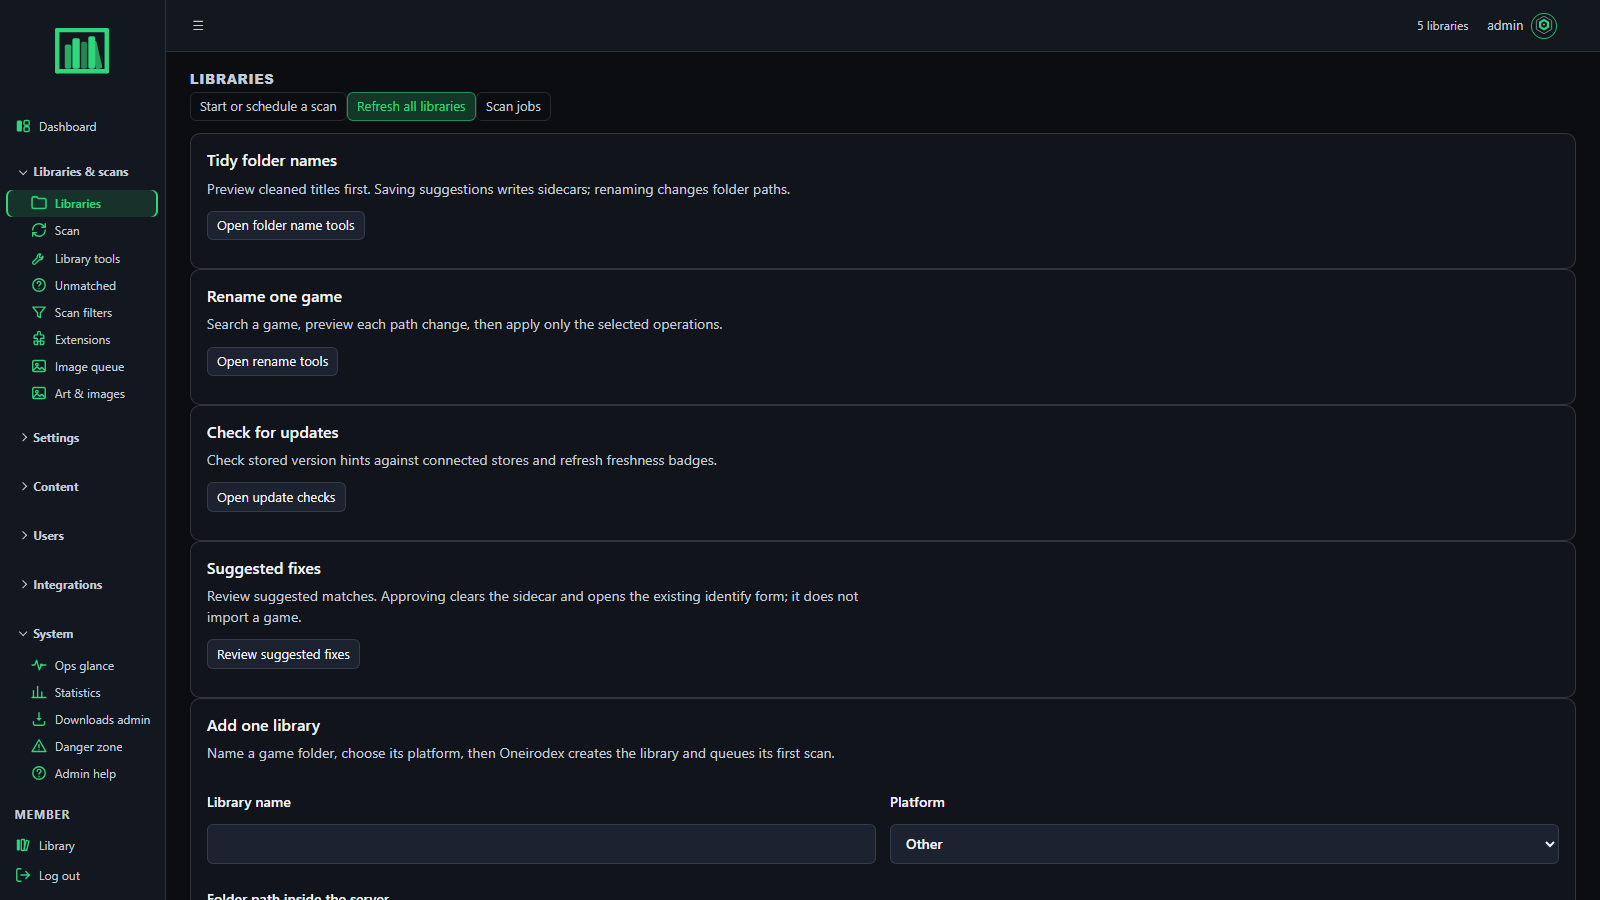
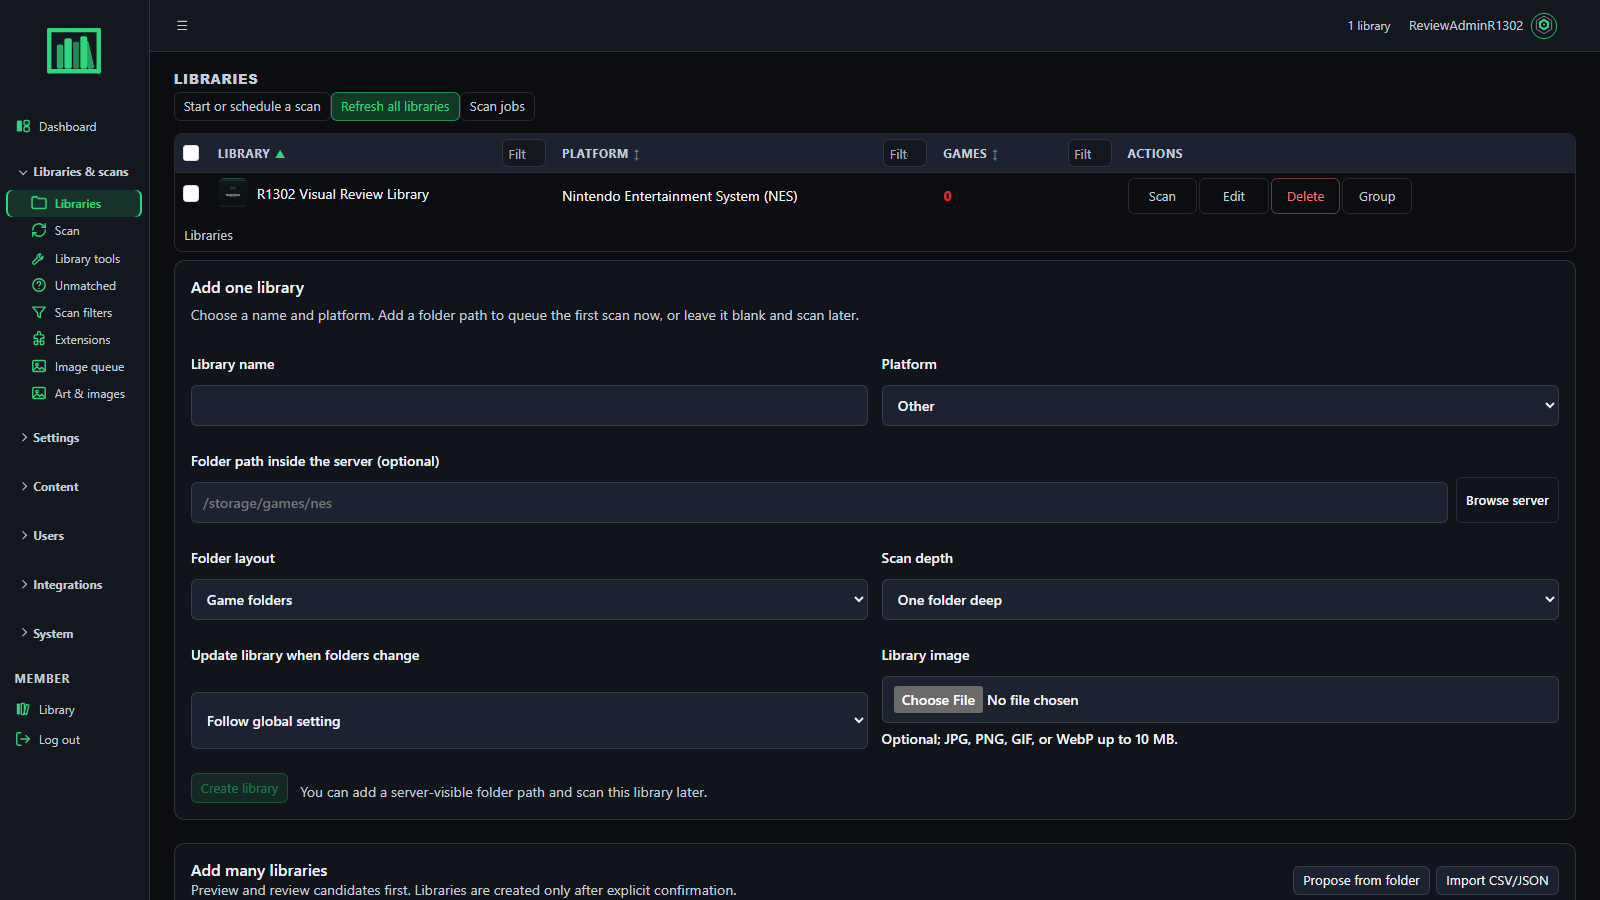
fix: put library roster first on admin page

diff --git a/frontend/admin-app/src/pages/ManualIdentifyPage.test.tsx b/frontend/admin-app/src/pages/ManualIdentifyPage.test.tsx
@@ -98,7 +98,7 @@ test('loads options, applies an IGDB match, and posts a JSON identify payload', 
     'od-btn--primary',
     'od-btn--lg',
   )
-  expect(screen.getByRole('button', { name: 'Save', exact: true })).toHaveClass('od-btn--lg')
+  expect(screen.getByRole('button', { name: /^Save$/ })).toHaveClass('od-btn--lg')
   for (const provider of ['Steam', 'GOG', 'RAWG', 'MobyGames', 'TheGamesDB']) {
     expect(screen.getByRole('button', { name: `Search ${provider}` })).toHaveClass(
       'od-btn--primary',
@@ -110,7 +110,7 @@ test('loads options, applies an IGDB match, and posts a JSON identify payload', 
   expect(screen.getByLabelText('Status')).toHaveValue('RELEASED')
   expect(screen.getByRole('button', { name: 'Search IGDB by ID' })).toBeEnabled()
   expect(screen.getByText('Enter the IGDB ID of the game.')).toBeInTheDocument()
-  expect(screen.getByRole('button', { name: 'Save', exact: true })).toBeDisabled()
+  expect(screen.getByRole('button', { name: /^Save$/ })).toBeDisabled()
   fireEvent.click(screen.getByRole('button', { name: 'Search IGDB by ID' }))
   expect(fetchMock).not.toHaveBeenCalledWith(
     expect.stringContaining('/api/search_igdb_by_id'),
@@ -121,8 +121,8 @@ test('loads options, applies an IGDB match, and posts a JSON identify payload', 
   expect(screen.getByLabelText('Name')).toHaveValue('Sample')
   fireEvent.click(screen.getByRole('tab', { name: 'Taxonomy' }))
   expect(screen.getByLabelText('Adventure')).toBeChecked()
-  expect(screen.getByRole('button', { name: 'Save', exact: true })).toBeEnabled()
-  fireEvent.click(screen.getByRole('button', { name: 'Save', exact: true }))
+  expect(screen.getByRole('button', { name: /^Save$/ })).toBeEnabled()
+  fireEvent.click(screen.getByRole('button', { name: /^Save$/ }))
 
   await waitFor(() =>
     expect(fetchMock).toHaveBeenCalledWith(
@@ -497,7 +497,7 @@ test('explains that a game name is required before searching IGDB', async () => 
     </MemoryRouter>,
   )
 
-  const searchButton = await screen.findByRole('button', { name: 'Search IGDB', exact: true })
+  const searchButton = await screen.findByRole('button', { name: /^Search IGDB$/ })
   expect(searchButton).toBeEnabled()
   fireEvent.click(searchButton)
 
@@ -537,7 +537,7 @@ test('keeps an empty IGDB result as inline guidance instead of an error alert', 
     </MemoryRouter>,
   )
 
-  fireEvent.click(await screen.findByRole('button', { name: 'Search IGDB', exact: true }))
+  fireEvent.click(await screen.findByRole('button', { name: /^Search IGDB$/ }))
 
   expect(await screen.findByRole('status')).toHaveTextContent(note)
   expect(screen.queryByRole('alert')).not.toBeInTheDocument()
@@ -621,7 +621,7 @@ test('announces IGDB transport failures beside the search controls', async () =>
     </MemoryRouter>,
   )
 
-  fireEvent.click(await screen.findByRole('button', { name: 'Search IGDB', exact: true }))
+  fireEvent.click(await screen.findByRole('button', { name: /^Search IGDB$/ }))
 
   const alert = await screen.findByRole('alert')
   expect(alert).toHaveTextContent('Failed to fetch')
@@ -707,11 +707,11 @@ test('switches non-catalog entry to a generated, locked ID and focuses the empty
     expect(name).toHaveFocus()
   })
   expect(screen.getByRole('button', { name: 'Search IGDB by ID' })).toBeDisabled()
-  expect(screen.getByRole('button', { name: 'Search IGDB', exact: true })).toBeDisabled()
-  expect(screen.getByRole('button', { name: 'Save', exact: true })).toBeDisabled()
+  expect(screen.getByRole('button', { name: /^Search IGDB$/ })).toBeDisabled()
+  expect(screen.getByRole('button', { name: /^Save$/ })).toBeDisabled()
   fireEvent.change(name, { target: { value: 'Custom game' } })
-  expect(screen.getByRole('button', { name: 'Search IGDB', exact: true })).toBeDisabled()
-  expect(screen.getByRole('button', { name: 'Save', exact: true })).toBeEnabled()
+  expect(screen.getByRole('button', { name: /^Search IGDB$/ })).toBeDisabled()
+  expect(screen.getByRole('button', { name: /^Save$/ })).toBeEnabled()
   expect(fetchMock).not.toHaveBeenCalledWith(
     expect.stringContaining('/api/search_igdb_by_id'),
     expect.anything(),
@@ -779,8 +779,8 @@ test('reports custom ID allocation failure without using the legacy fallback ID'
   expect(id).toHaveValue(null)
   expect(id).not.toHaveAttribute('readonly')
   expect(screen.getByRole('button', { name: 'Search IGDB by ID' })).toBeEnabled()
-  expect(screen.getByRole('button', { name: 'Search IGDB', exact: true })).toBeEnabled()
-  expect(screen.getByRole('button', { name: 'Save', exact: true })).toBeDisabled()
+  expect(screen.getByRole('button', { name: /^Search IGDB$/ })).toBeEnabled()
+  expect(screen.getByRole('button', { name: /^Save$/ })).toBeDisabled()
   expect(
     fetchMock.mock.calls.some(([input]) => String(input) === '/api/admin/manual-identify'),
   ).toBe(false)

diff --git a/frontend/admin-app/src/components/LibrariesPanel.tsx b/frontend/admin-app/src/components/LibrariesPanel.tsx
@@ -378,47 +378,6 @@ export function LibrariesPanel({ panelEl: _panelEl = null }: { panelEl?: Element
 
   return (
     <div className="od-libraries-react">
-      <CreateLibraryForm onCreated={() => void reload()} />
-      <section
-        className="od-admin-panel od-libraries-add-many"
-        aria-labelledby="od-libraries-add-many-title"
-      >
-        <div className="od-libraries-add-many__header">
-          <div>
-            <h2 id="od-libraries-add-many-title" className="od-admin-panel-title">
-              Add many libraries
-            </h2>
-            <p className="od-admin-lede">
-              Preview and review candidates first. Libraries are created only after explicit
-              confirmation.
-            </p>
-          </div>
-          <div
-            className="od-libraries-add-many__actions"
-            role="group"
-            aria-label="Add many workflows"
-          >
-            <Button
-              type="button"
-              className={addManyMode === 'propose' ? 'od-btn--accent' : 'od-btn--secondary'}
-              aria-pressed={addManyMode === 'propose'}
-              onClick={() => setAddManyMode((mode) => (mode === 'propose' ? null : 'propose'))}
-            >
-              Propose from folder
-            </Button>
-            <Button
-              type="button"
-              className={addManyMode === 'import' ? 'od-btn--accent' : 'od-btn--secondary'}
-              aria-pressed={addManyMode === 'import'}
-              onClick={() => setAddManyMode((mode) => (mode === 'import' ? null : 'import'))}
-            >
-              Import CSV/JSON
-            </Button>
-          </div>
-        </div>
-        {addManyMode === 'propose' ? <ProposeLeafLibraries /> : null}
-        {addManyMode === 'import' ? <ImportLeafLibraries /> : null}
-      </section>
       <LibrariesTrailSummary
         libraryCount={libraryCount}
         totalGames={totalGames}
@@ -472,9 +431,51 @@ export function LibrariesPanel({ panelEl: _panelEl = null }: { panelEl?: Element
         columnFilters
         showCount={false}
         dense
-        emptyMessage="No libraries yet. Create one above to start scanning."
+        emptyMessage="No libraries yet. Create one below to start scanning."
         initialSort={{ key: 'name', dir: 'asc' }}
       />
+
+      <CreateLibraryForm onCreated={() => void reload()} />
+      <section
+        className="od-admin-panel od-libraries-add-many"
+        aria-labelledby="od-libraries-add-many-title"
+      >
+        <div className="od-libraries-add-many__header">
+          <div>
+            <h2 id="od-libraries-add-many-title" className="od-admin-panel-title">
+              Add many libraries
+            </h2>
+            <p className="od-admin-lede">
+              Preview and review candidates first. Libraries are created only after explicit
+              confirmation.
+            </p>
+          </div>
+          <div
+            className="od-libraries-add-many__actions"
+            role="group"
+            aria-label="Add many workflows"
+          >
+            <Button
+              type="button"
+              className={addManyMode === 'propose' ? 'od-btn--accent' : 'od-btn--secondary'}
+              aria-pressed={addManyMode === 'propose'}
+              onClick={() => setAddManyMode((mode) => (mode === 'propose' ? null : 'propose'))}
+            >
+              Propose from folder
+            </Button>
+            <Button
+              type="button"
+              className={addManyMode === 'import' ? 'od-btn--accent' : 'od-btn--secondary'}
+              aria-pressed={addManyMode === 'import'}
+              onClick={() => setAddManyMode((mode) => (mode === 'import' ? null : 'import'))}
+            >
+              Import CSV/JSON
+            </Button>
+          </div>
+        </div>
+        {addManyMode === 'propose' ? <ProposeLeafLibraries /> : null}
+        {addManyMode === 'import' ? <ImportLeafLibraries /> : null}
+      </section>
 
       <ScanConflictModal
         open={conflictOpen}

diff --git a/frontend/admin-app/src/components/LibrariesPanel.test.tsx b/frontend/admin-app/src/components/LibrariesPanel.test.tsx
@@ -116,6 +116,22 @@ test('the real Jinja libraries panel exposes the add-and-first-scan form', async
   expect(screen.getByRole('button', { name: 'Create library' })).toBeDisabled()
 })
 
+test('shows the library roster before the create and bulk-import tools', async () => {
+  render(<LibrariesPanel />)
+  const libraryName = await screen.findByText('_pc')
+  const libraryTable = libraryName.closest('table')
+  const createHeading = await screen.findByRole('heading', { name: 'Add one library' })
+  const bulkHeading = screen.getByRole('heading', { name: 'Add many libraries' })
+
+  expect(libraryTable).not.toBeNull()
+  expect(
+    libraryTable!.compareDocumentPosition(createHeading) & Node.DOCUMENT_POSITION_FOLLOWING,
+  ).toBeTruthy()
+  expect(
+    createHeading.compareDocumentPosition(bulkHeading) & Node.DOCUMENT_POSITION_FOLLOWING,
+  ).toBeTruthy()
+})
+
 test('native libraries expose folder proposal and CSV/JSON import with previews before confirmation', async () => {
   render(<LibrariesPanel />)
   await screen.findByText('_pc')

diff --git a/frontend/admin-app/src/pages/SmtpPage.test.tsx b/frontend/admin-app/src/pages/SmtpPage.test.tsx
@@ -145,7 +145,7 @@ test('SMTP heading help opens accessible guidance and traps focus until closed',
   expect(screen.getByRole('button', { name: 'Close SMTP help' })).toHaveFocus()
 
   fireEvent.keyDown(document, { key: 'Tab', shiftKey: true })
-  expect(screen.getByRole('button', { name: 'Close', exact: true })).toHaveFocus()
+  expect(screen.getByRole('button', { name: /^Close$/ })).toHaveFocus()
   fireEvent.keyDown(document, { key: 'Tab' })
   expect(screen.getByRole('button', { name: 'Close SMTP help' })).toHaveFocus()
 
@@ -156,7 +156,7 @@ test('SMTP heading help opens accessible guidance and traps focus until closed',
 
   fireEvent.click(trigger)
   await screen.findByRole('dialog', { name: 'How to Get SMTP Server Information' })
-  fireEvent.click(screen.getByRole('button', { name: 'Close', exact: true }))
+  fireEvent.click(screen.getByRole('button', { name: /^Close$/ }))
   await waitFor(() => expect(screen.queryByRole('dialog')).not.toBeInTheDocument())
   expect(trigger).toHaveFocus()
 })

diff --git a/docs/dev/ui-debt-log.md b/docs/dev/ui-debt-log.md
@@ -323,7 +323,7 @@ Status: `open` | `in_progress` | `done` | `deferred` | `wontfix`
 | UID-174 | Manual Identify file candidates | File-mode candidates could be listed and opened but current save rejected a valid file path as though every game target had to be a directory | Current validation accepts a readable regular file or directory after the existing allowed-root check in both native FastAPI and Flask compatibility mutations. Paired R763 browser replay saved the same synthetic file in both isolated builds; focused API create/edit test and helper tests pass. Existing folder validation remains covered; no scan jobs or provider traffic. Evidence: .artifacts/parity-v1.1.8/manual-file-save-r763-20261024.json. Broader auth, provider, link-existing and error parity remains open. | Bug scrub / parity | in_progress |
 | UID-175 | Link existing game from file-mode candidates | Current link-existing rejected regular file paths even though the manual file scan could list and identify them | Native and Flask compatibility endpoints now accept a readable regular file or directory after allowed-root validation. Paired R763 replay confirms both versions link the existing synthetic game to the same file path and return to Unmatched with success. Current retains its confirmation prompt as an intentional safety improvement. Tests 22/22 across native/compatibility mutation contracts and Flask API file-path behavior; scan jobs 0, provider calls 0. Evidence: .artifacts/parity-v1.1.8/manual-link-existing-file-r763-20261024.json. | Bug scrub / parity | in_progress |
 | UID-176 | Direct Manual Identify path title prefill | A direct `full_disk_path` entry without `name` left the current React Name field blank while v1.1.8 prefilled the path title | **Fixed and verified 2026-10-24:** current admin options expose the same supported ROM/archive suffixes as the scanner; the form derives the final path segment when `name` is absent, strips supported suffixes, and preserves explicit names and dotted directory names. Paired R766 runtime UI shows `Alpha.rom` on v1.1.8 and the intentional extension-free `Alpha` on current. ManualIdentifyPage tests 8/8, native read tests 3/3, Flask API tests 5/5, admin-pilot build, API-envelope lint and `git diff --check` pass. Evidence: `.artifacts/parity-v1.1.8/manual-identify-path-title-prefill-r766-20261024.json`. | Bug scrub / parity | done |
-| UID-196 | Admin library page discoverability | After first-library setup, utility panels pushed the new library row below the fold; the success notice appeared over lower content | R1302 moves `LibrariesPanel` ahead of maintenance utilities and adds an order regression test (13 focused UI tests pass; production build passes). The R1301 capture predates the change, so source-backed desktop/mobile recapture must confirm the created row and notification are discoverable before closure. | Bug scrub / parity | in_progress |
+| UID-196 | Admin library page discoverability | After first-library setup, utility panels pushed the new library row below the fold; the success notice appeared over lower content | R1302 now renders the library roster immediately after the toolbar, before create/import tools and maintenance panels; the empty state points to the create form below. A 1600x900 source-backed staging capture shows the synthetic first-library row as the first content after the toolbar: docs/media/screenshots/admin-libraries.png. The 390px source-backed browser check confirmed the created row and setup notice; the component-order regression covers roster-before-tools at every viewport. Admin UI tests 42/42, typecheck, production build, and the staging capture health gate pass. README admin-libraries screenshot refreshed. | Bug scrub / parity | done |
 | UID-177 | Manual Identify platform label | Current edit form exposed the internal enum key `PCWIN` where v1.1.8 displayed `PC Windows` | **Fixed and verified 2026-10-24:** native and compatibility options APIs now return the human-readable enum value. Paired R767 edit-route UI shows `PC Windows` in the current library option and platform summary, matching the legacy platform summary. ManualIdentifyPage 8/8, native reads 4/4, Flask API 5/5; current R763 runtime overlay restarted and visually verified. Evidence: `.artifacts/parity-v1.1.8/manual-identify-platform-label-r767-20261024.json`. | Bug scrub / parity | done |
 | UID-178 | Manual Identify save feedback | Current React edit persisted successfully and returned to Library but omitted the success notice visible in v1.1.8 | **Fixed and verified 2026-10-24:** successful session-backed create/edit responses queue and persist the legacy notice; edits that start image refresh include the game UUID and show the legacy compact progress toast/spinner; API-token writes do not receive browser flashes. Paired R763 edit, R770 create, and R771 IGDB-change update replays show matching feedback on both `/library` pages. Focused mutation and dispatch tests pass 8/8. No scan job or provider request. Synthetic games, accounts, and audit records were removed from both R763 clones. Evidence: `.artifacts/parity-v1.1.8/manual-identify-save-flash-r769-20261024.json`, `manual-identify-create-feedback-r770-20261024.json`, and `manual-identify-image-refresh-feedback-r771-20261024.json`. | Bug scrub / parity | done |
 | UID-179 | Manual Identify duplicate-ID feedback | Duplicate IGDB IDs were rejected, but current omitted the conflicting ID and placed its error after the long form, unlike the visible legacy alert | **Fixed and verified 2026-10-24:** current now includes the conflicting IGDB ID and renders the alert before the edit fields. Paired R772 browser replay shows the same visible message near the top in both versions; both preserve the attempted game and conflicting row, with no scan jobs or page errors. Focused Python tests 9/9, ManualIdentifyPage tests 10/10, CSS-token lint and admin-pilot build pass. Both isolated clone databases were cleaned and verified. Evidence: `.artifacts/parity-v1.1.8/manual-identify-duplicate-id-r772-20261024.json` and paired R772 screenshots. | Bug scrub / parity | done |
